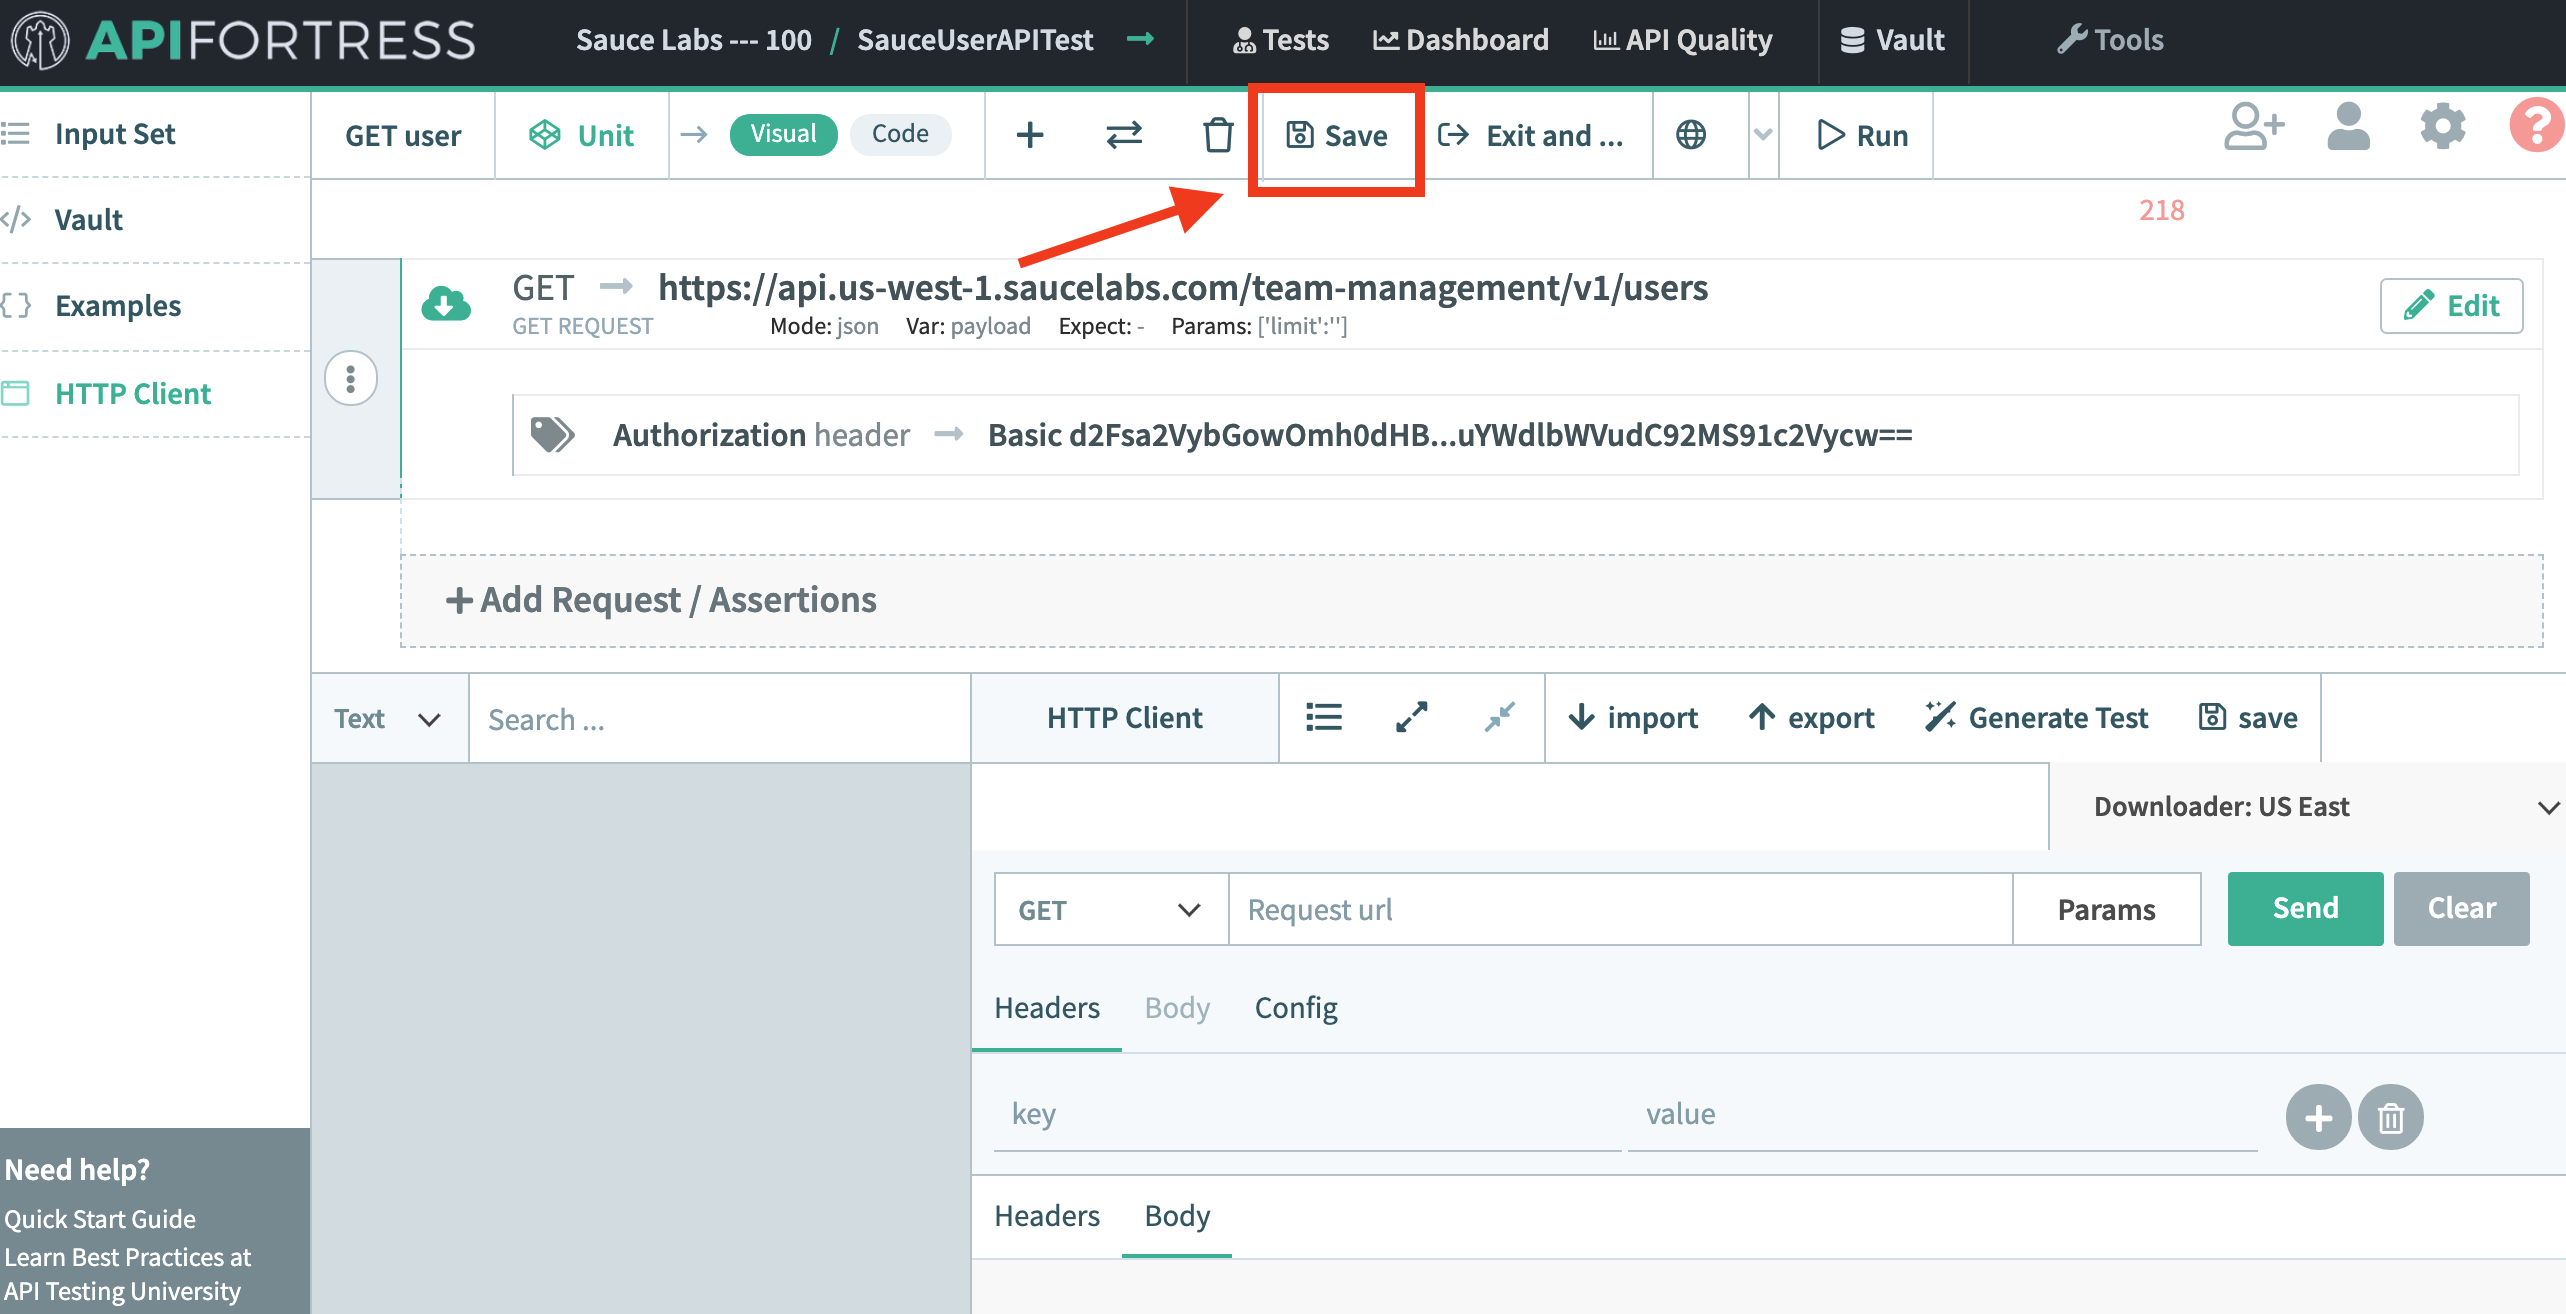
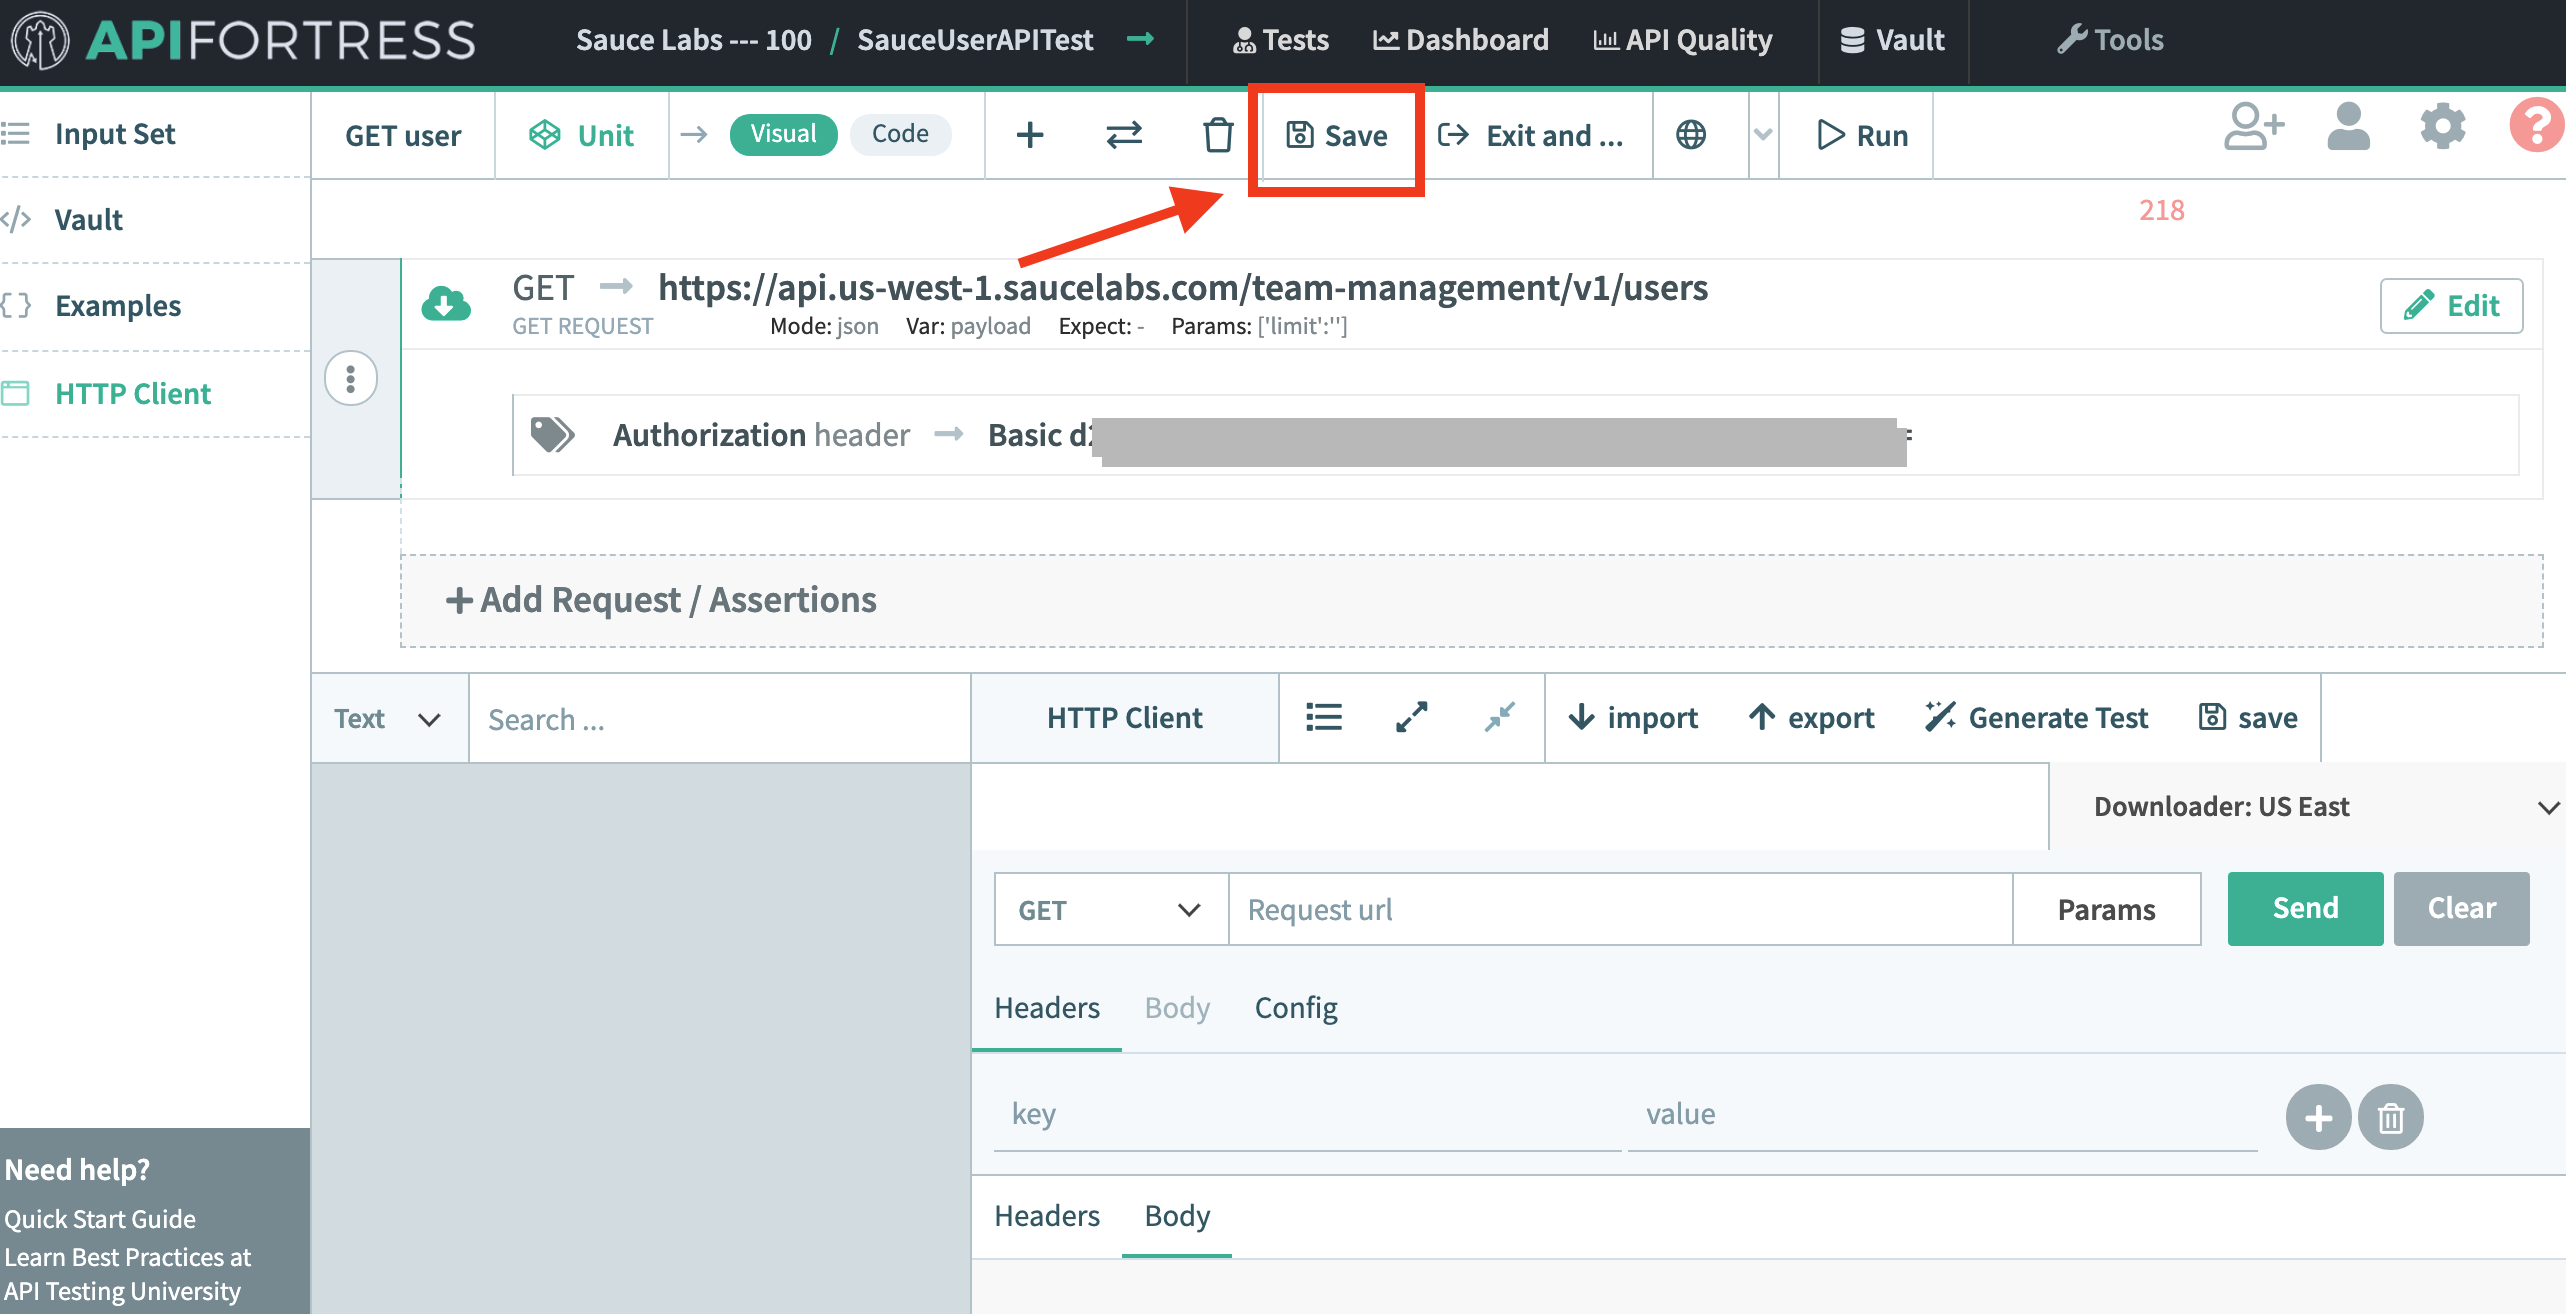
Final draft of review of APIF module 2

Changed region(s): [[0.4053, 0.312, 0.7482, 0.3744]]

diff --git a/codelabs/Module2_APITesting.md b/codelabs/Module2_APITesting.md
@@ -18,10 +18,11 @@ author: James Tacker & Lindsay Walker
 Duration: 0:02:00
 
 1. **Introduction to the API Fortress Platform and Visual Test Composer**
-   * Create a project
-   * Leverage the HTTP Client
-   * Navigate the Test Component library
-   * Generate and run a test
+   * Create a project & test file
+   * Use the **HTTP Client** to generate a GET request
+   * Use the **Test Component Library** to create a request
+   * Add authorization credentials to a request
+   * Generate a test from a valid GET request
    * View the test results
    * Publish and schedule a test run
 
@@ -88,8 +89,12 @@ From the project dashboard:
 
 1. Select **Tests** at the top of the screen in order to navigate to the project test list
    <img src="assets/apif-mod2/select-tests.png" alt="API Fortress: Select Tests" />
+
+
 2. From the project test list, select **+New Test**
    <img src="assets/apif-mod2/new-tests.png" alt="API Fortress: New Tests" />
+
+
 3. You should now see the new **Test Details** alert window
    <img src="assets/apif-mod2/test-details.png" alt="API Fortress: Test Details" />
    Add the following for each category:
@@ -97,7 +102,10 @@ From the project dashboard:
     * **Description**: `Test for the GET Method`
     * **Tags**: `get`, `user`
 
+
 4. When you're finished, select the **green check mark** <img src="assets/apif-mod2/green-check-mark.png" alt="API Fortress: Green Check Mark" width="30"/> at the top.
+
+
 5. Now you should see the **Test Status** / **Interstitial** page.
    <img src="assets/apif-mod2/test-status.png" alt="API Fortress: Test Status / Interstitial Page" />
 
@@ -116,15 +124,19 @@ From the Interstitial page:
 
 1. Select **Compose** at the bottom of the page.
    <img src="assets/apif-mod2/compose-button.png" alt="API Fortress: Compose Test Button" />
+
+
 2. Now you arrive at the [Visual Test Composer](https://docs.saucelabs.com/api-testing/quick-start/composer) page.
    <img src="assets/apif-mod2/test-composer.png" alt="API Fortress: Test Composer" />
    In order to create tests we first need to submit a sample HTTP API request.
+
 
 3. At the bottom of the UI, enter the following URL where it says **Request url** in the **HTTP Client**:
    ```
    https://api.us-west-1.saucelabs.com/team-management/v1/users?limit=3
    ```
    <img src="assets/apif-mod2/test-1.png" alt="API Fortress: Generate Test Step 1" />
+
 
 4. Select the **Send** button:
 
@@ -135,6 +147,8 @@ From the Interstitial page:
    "HTTP Code 401: Authorization failed"
    ```
    <img src="assets/apif-mod2/401-error.png" alt="API Fortress: HTTP 401 Request Error" />
+
+
 #### Note:
 
 Negative
@@ -148,27 +162,32 @@ In the previous step we encountered a common authentication error **[HTTP: 401](
 1. At the top of the Test Composer page, select the plus symbol to **add a new request component**:
    <img src="assets/apif-mod2/add-component-button.png" alt="API Fortress: Add Component Button" />
 
+
 2. From the dropdown list, select **GET**:
 
    <img src="assets/apif-mod2/select-get-component.png" alt="API Fortress: Select GET Component" />
 
+
 ### Create A GET Component
 1. In the next screen, recreate your HTTP Client request with the following information
    <img src="assets/apif-mod2/get-request-details.png" alt="API Fortress: GET Request Details" />
-    * **Url**: `https://api.us-west-1.saucelabs.com/team-management/v1/users`
-    * **Variable**: `payload`
+    * **Url**: `https://api.us-west-1.saucelabs.com/team-management/v1/users` – The URL that you are retrieving data from
+    * **Variable**: `payload` - The variable where the response to GET is stored
     * **Expect**: Leave blank
-    * **Mode**: `json`
-    * **Query Params**: *Name*: `limit` *String value*: `3`
+    * **Mode**: `json` - The format of the information from the GET call
+    * **Query Params**: *Name*: `limit` *String value*: `3` – Sets the number of responses to a limit of 3 so your test doesn't take too long
 
 2. Then select **Add Authentication** at the bottom right.
    <img src="assets/apif-mod2/add-authentication.png" alt="API Fortress: Authentication Details" />
+
 
 3. Select **Basic Authentication**, then add your [Sauce Labs Username and Access Key](https://app.us-west-1.saucelabs.com/user-settings) in the relevant fields.    When you're finished, select the **green check mark** <img src="assets/apif-mod2/green-check-mark.png" alt="API Fortress: Green Check Mark" width="30"/> in the top right.
 
    <img src="assets/apif-mod2/basic-auth-component.png" alt="API Fortress: Basic Auth Component" />
 
    <img src="assets/apif-mod2/basic-auth-details.png" alt="API Fortress: Basic Auth Details" />
+
+
 
 #### Note
 Negative
@@ -178,19 +197,25 @@ Negative
 ### Copy and Paste the Enocded Auth Header
 1. You'll notice that API Fortress automagically encodes and adds the Authorization header for you. Double-click the component to see the details:
    <img src="assets/apif-mod2/new-auth-component.png" alt="API Fortress: New Auth Component" />
-2. Copy and paste the details in your HTTP Client **Headers** section:
-   <img src="assets/apif-mod2/copied-to-http-client.png" alt="API Fortress: Copied auth header to http client" />
+
+   
+2. Copy and paste the details in your HTTP Client **Headers** section, and make sure the endpoint URL `https://api.us-west-1.saucelabs.com/team-management/v1/users` is still there:
+   <img src="assets/apif-mod2/APIF2.04B.png" alt="Past Auth" />  
+
 
 3. Select the **Send** button again, and you should see something similar to below in the response body:
    <img src="assets/apif-mod2/response-body-1.png" alt="API Fortress: Response Body Example" />
 
+
 4. Next, select the **Generate Test** button and API Fortress automagically generates a sample test based on the request data.
    <img src="assets/apif-mod2/generate-test.png" alt="API Fortress: Generate Test Button" />
+
 
 5. Click through the prompts, and you should now see many tests in the Visual Test Composer Window.
    <img src="assets/apif-mod2/visual-composer-view.png" alt="API Fortress: Visual Test Composer View" />
 
-6. The final step is to run your tests. At the top of the Visual Test Composer, select **Run**
+
+6. The final step is to run your tests. At the top of the Visual Test Composer, select **Save** then **Run**
    <img src="assets/apif-mod2/run-test.png" alt="API Fortress: Run Test Button" />
 
 <!------------------------------>
@@ -274,3 +299,5 @@ In the next module, we will take a step back and dive deeper into the API Fortre
 
 <!-- ------------------------ -->
 ## 2.07 Module 2 Quiz
+
+![https://docs.google.com/forms/d/e/1FAIpQLScD-Qv4R-99_uW2IumSKhPTkwO3RX-3mU0G-aotTWMrIVVrUA/viewform?embedded=true](https://docs.google.com/forms/d/e/1FAIpQLScD-Qv4R-99_uW2IumSKhPTkwO3RX-3mU0G-aotTWMrIVVrUA/viewform?usp=sf_link)
